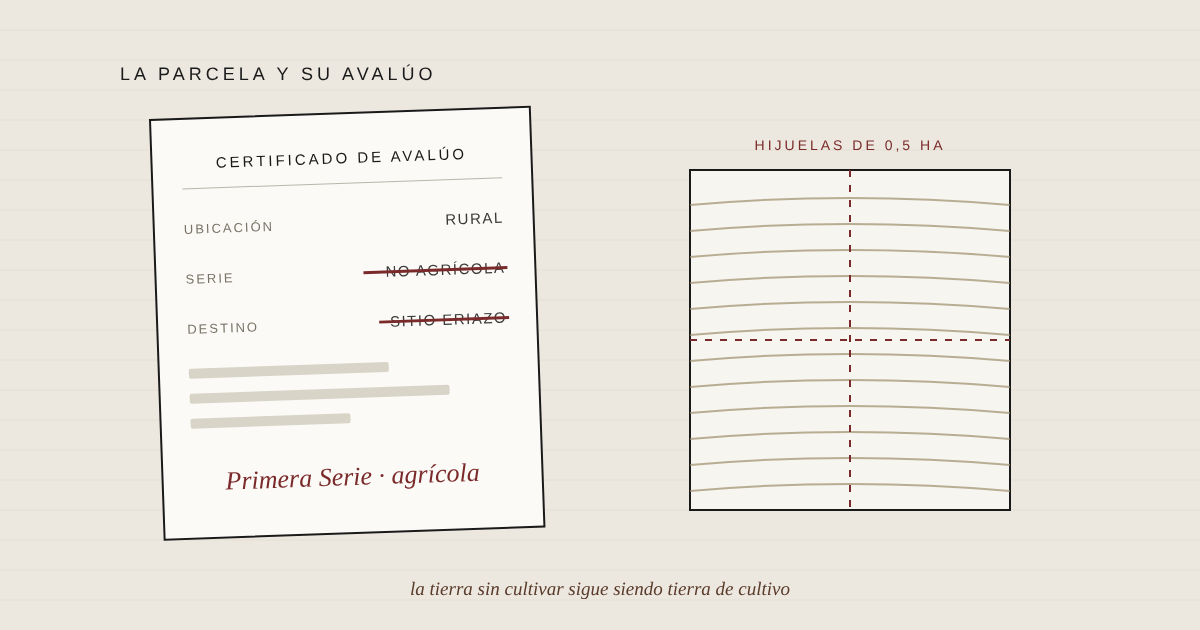
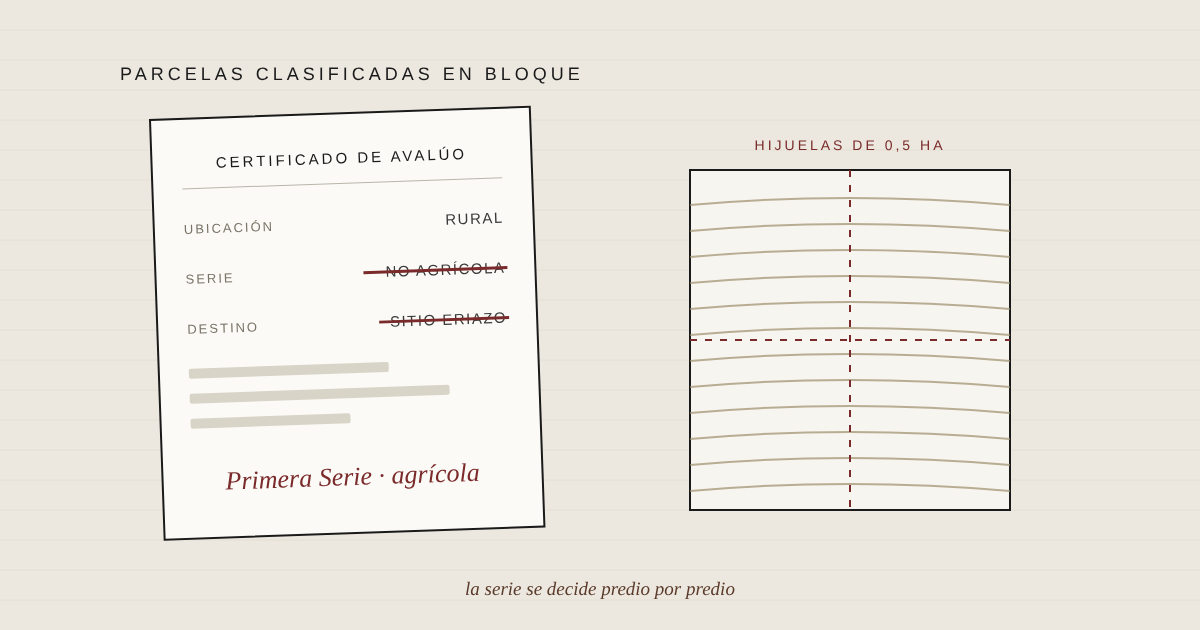
Borrador parcelas: revisión editorial y técnica
Claude-Session: https://claude.ai/code/session_01FRd7An63fs7rwNCgLqKwwc

Changed region(s): [[0.0925, 0.0905, 0.4933, 0.1508], [0.3392, 0.9048, 0.6475, 0.9651]]

diff --git a/src/content/derecho/parcelas-sitio-eriazo.md b/src/content/derecho/parcelas-sitio-eriazo.md
@@ -1,6 +1,6 @@
 ---
-titulo: "La parcela que el Servicio llamó eriazo"
-bajada: "Miles de hijuelas rurales del sur figuran en la serie no agrícola, con destino «sitio eriazo», por el solo hecho de venir de un loteo. Un fallo reciente del Tribunal Tributario y Aduanero de Los Lagos explica por qué ese criterio no tiene sustento en la ley."
+titulo: "Parcelas clasificadas en bloque"
+bajada: "El Servicio de Impuestos Internos registra como «sitio eriazo» muchas parcelas del sur por el solo hecho de venir de un loteo, sin mirar cada predio, y sus dueños pagan contribuciones como si no fueran campo. Un fallo reciente del Tribunal Tributario y Aduanero de Los Lagos explica por qué la ley exige otra cosa."
 tema: "Impuesto territorial · Avalúos"
 fecha: "2026-11-10"
 lectura: "9 minutos"
@@ -8,57 +8,67 @@ imagen: "/img/derecho/parcelas-sitio-eriazo.png"
 borrador: true
 ---
 
-Quien tiene una parcela en el sur de Chile, de esas que nacieron de la subdivisión de un predio más grande, probablemente nunca ha mirado con atención su certificado de avalúo fiscal. Si lo hiciera, en muchos casos encontraría dos datos que no calzan con lo que ve cuando llega al terreno: que el predio está clasificado en la serie de bienes raíces no agrícolas, y que su destino es «sitio eriazo». Detrás de esas dos líneas hay un avalúo bastante más alto que el de los campos vecinos, y unas contribuciones que poco tienen que ver con un potrero.
+Quien tiene una parcela en el sur de Chile, de esas que nacieron de la subdivisión de un predio más grande, probablemente nunca ha mirado con atención su certificado de avalúo fiscal. Si lo hiciera, en muchos casos encontraría dos datos que no calzan con lo que ve cuando llega al terreno: que el predio está clasificado en la serie de bienes raíces no agrícolas, y que su destino es «sitio eriazo». Detrás de esas dos líneas hay un avalúo bastante más alto que el de los campos vecinos, y unas contribuciones que poco tienen que ver con lo que rinde un campo.
 
-El 10 de noviembre de 2026, el Tribunal Tributario y Aduanero de la Región de Los Lagos dictó una sentencia que se hace cargo de este problema de manera directa. En una causa patrocinada por el abogado René Fuchslocher (RIT GR-12-00031-2026), el tribunal ordenó eliminar la calificación de «sitio eriazo» de trece parcelas rurales ubicadas en Llanquihue, Frutillar, Hualaihué, Futaleufú y el sector de Lagunitas, en Puerto Montt, y clasificarlas en la Primera Serie, la de los bienes raíces agrícolas. Es, además, la segunda sentencia del mismo tribunal en esta línea.
+El 10 de noviembre de 2026, el Tribunal Tributario y Aduanero de la Región de Los Lagos dictó una sentencia sobre este problema, en una causa patrocinada por el abogado René Fuchslocher (RIT GR-12-00031-2026). El tribunal ordenó al Servicio de Impuestos Internos eliminar la calificación de «sitio eriazo» de trece parcelas rurales ubicadas en Llanquihue, Frutillar, Hualaihué, Futaleufú y el sector de Lagunitas, en Puerto Montt, y, una vez ejecutoriada la sentencia, clasificarlas en la Primera Serie, la de los bienes raíces agrícolas. No es la primera vez que ese tribunal se pronuncia sobre el tema: en 2025 ya había dicho que la calificación de sitio eriazo no tiene sustento en la Ley 17.235.
 
-Quiero detenerme en los fundamentos, porque me parece que dicen bastante más que el caso.
+La discusión sobre la ley, en este caso, es bastante clara. Lo que más me interesa del fallo es la forma en que el Servicio llegó a clasificar esas parcelas, porque muestra algo que veo seguido en materia tributaria: que el problema rara vez está en la norma, y casi siempre está en el proceso con que se aplica.
 
-## Dos series y una sola pregunta
+## Cómo se clasificaron
+
+El dueño de los trece predios pidió al Servicio que revisara su clasificación. El Servicio la mantuvo con una resolución que se apoyó en tres cosas: en la Circular N.º 15, de 2019, en que la mayoría eran lotes de superficie acotada, y en que los más extensos estaban parcelados para la venta, como uno que registraba dieciocho transferencias. Para hacerlo revisó el catastro y los giros de contribuciones, pero, como constató el tribunal, clasificó los predios solo por venir de una subdivisión, sin hacer la comparación que exige la ley.
+
+Para trece roles distintos, repartidos entre Llanquihue y Futaleufú, la decisión salió de la información que el Servicio ya tenía en sus sistemas y del historial de ventas de uno solo de ellos. Esa forma de clasificar, en bloque y desde el escritorio, es el verdadero centro del problema.
+
+## Lo que la ley pregunta
 
 La Ley 17.235, sobre impuesto territorial, divide los bienes raíces en dos series. La Primera Serie, la agrícola, comprende, según su artículo 1° letra A), todo predio, cualquiera que sea su ubicación, cuyo terreno esté destinado preferentemente a la producción agropecuaria o forestal, o que económicamente sea susceptible de dichas producciones en forma predominante. La Segunda Serie reúne a todos los demás.
 
-Lo importante está en la frase que viene a continuación. La misma ley dice que la destinación preferente se evaluará en función de las rentas que produzca o pueda producir la actividad agropecuaria y los demás fines a que se pueda destinar el predio. Es decir, la clasificación no es una impresión ni una etiqueta. Es el resultado de un ejercicio comparativo: cuánto rendiría ese suelo en el campo, y cuánto rendiría en otros usos posibles. La pregunta que la ley le hace al Servicio es una sola, y se responde predio por predio.
+La misma norma agrega que la destinación preferente se evaluará en función de las rentas que produzca o pueda producir la actividad agropecuaria y los demás fines a que se pueda destinar el predio. Es decir, para clasificar un predio hay que hacer una comparación, y preguntarse cuánto rendiría ese suelo en el campo y cuánto rendiría en los otros usos que se le podrían dar. Esa comparación, por lo que dice la propia ley, hay que hacerla con cada predio por separado, que es justamente lo que no ocurrió en este caso.
 
-## Lo que dice la Circular 15, y lo que se aplicó
+Hay además un detalle de ese artículo que suele pasar inadvertido. La ley habla de todo predio «cualquiera que sea su ubicación», lo que significa que clasifica por el uso económico del suelo, y no por la forma en que se originó el título. Que un predio venga de un loteo dice algo de su historia en el Conservador, pero nada sobre su destinación preferente, y por eso no puede ser, por sí solo, la razón para sacarlo de la serie agrícola.
 
-El Servicio de Impuestos Internos desarrolló este punto en su Circular N.º 15, de 2019, y ahí aparece la figura que está detrás de toda esta discusión: la parcela de agrado. La circular instruye incluir en la Segunda Serie a los inmuebles rurales con superficies que no permitan una explotación económica agropecuaria, y agrega que en esa misma situación se encuentran las parcelas de agrado, que describe como bienes raíces rurales, regularmente de media hectárea o más, de un valor comercial superior al de los predios agrícolas del entorno, y cuya explotación agrícola es inexistente o secundaria.
+## La circular de las parcelas de agrado
 
-Esa última condición es la que se perdió en el camino. La circular no dice que toda parcela que venga de un loteo sea de agrado. Dice que lo es cuando su explotación agrícola es inexistente o secundaria, lo que supone, como mínimo, mirar el predio. El tribunal lo dijo con bastante claridad: el Servicio ha desestimado sistemáticamente esa sutileza, porque el solo hecho de que un terreno sea el producto de una subdivisión a gran escala, con hijuelas de tamaños más o menos similares, le basta para concluir que perdió su aptitud agrícola.
+La Circular 15 desarrolla este punto, y en ella aparece la figura que está detrás de toda esta discusión, la parcela de agrado. La circular instruye incluir en la Segunda Serie a los inmuebles rurales con superficies que no permitan una explotación económica agropecuaria y en que existan construcciones destinadas a la habitación, el comercio u otros usos, y agrega que en esa misma situación se encuentran las parcelas de agrado, que describe como bienes raíces rurales, regularmente de media hectárea o más, de un valor comercial superior al de los predios agrícolas del entorno, y cuya explotación agrícola es inexistente o secundaria.
 
-En el caso concreto, la resolución que rechazó la petición del contribuyente se fundó en la circular y en un dato: que uno de los predios registraba dieciocho transferencias. El Servicio revisó el catastro y los giros de contribuciones, pero no hizo un análisis individual de los trece roles ni la comparación de rentas que exige la ley. Se aplicó una instrucción administrativa en bloque, y a medias.
+Esa última condición es la que se perdió en el camino. La circular no dice que toda parcela que venga de un loteo sea de agrado. Dice que lo es cuando su explotación agrícola es inexistente o secundaria, lo que supone, como mínimo, mirar el predio. El tribunal lo dijo con mucha claridad, al reprochar que el Servicio haya pasado por alto esa distinción de manera sistemática. En el fondo, la circular se aplicó a todos los predios por igual, desde la información que el Servicio ya tenía, y sin la parte que obligaba a mirar si en cada uno la explotación agrícola era inexistente o secundaria. Y en este caso, además, ninguno de los trece predios tenía construcciones.
 
-## La aptitud agrícola no se pierde al dividir
+Creo que hay un argumento todavía más simple, que el fallo deja insinuado sin desarrollarlo. Una resolución que clasifica un bien raíz es un acto administrativo, y como tal debe estar fundada, como lo exigen los artículos 11 y 41 de la Ley 19.880. Una resolución que se limita a decir que los predios están bien catastrados según una circular, sin explicar por qué cada uno de ellos dejó de ser agrícola, no cumple ese estándar, por correcta que sea la circular. Y conviene recordar que una circular obliga a los funcionarios del Servicio, pero no a los contribuyentes ni a los tribunales.
 
-El centro del razonamiento del tribunal está en el Decreto Ley N.º 3.516, de 1980, que regula la subdivisión de predios rústicos. Su artículo 1° define los predios rústicos como los inmuebles de aptitud agrícola, ganadera o forestal ubicados fuera de los límites urbanos, y permite dividirlos libremente siempre que los lotes resultantes tengan una superficie no inferior a media hectárea física.
+## Lo que se divide sigue siendo campo
 
-El tribunal extrae de esa norma una consecuencia que me parece difícil de rebatir. Si la ley permite dividir un predio rústico hasta media hectárea, es porque entiende que cada lote resultante conserva la aptitud del todo. La tierra es un bien materialmente divisible: se puede fraccionar en partes sin que pierda su naturaleza, y cada parte participa de ella. Por eso, si el predio original tenía aptitud agrícola o forestal, lo lógico es presumir que cada hijuela la conserva, y si el Servicio sostiene que esa aptitud desapareció, es a él a quien le corresponde demostrarlo.
+El tribunal construyó buena parte de su razonamiento sobre el Decreto Ley N.º 3.516, de 1980, que regula la subdivisión de predios rústicos. Su artículo 1° define los predios rústicos como los inmuebles de aptitud agrícola, ganadera o forestal ubicados fuera de los límites urbanos, y permite dividirlos libremente siempre que los lotes resultantes tengan una superficie no inferior a media hectárea física.
 
-Hay un segundo argumento, de competencia, que también me parece muy relevante. La aptitud agrícola o forestal de un suelo no es una materia que el Servicio pueda evaluar por sí solo, porque es una cuestión técnica que la ley ha encargado a otros organismos, como el Servicio Agrícola y Ganadero, que además es el que aprueba la subdivisión. Y el mismo decreto ley impide que los lotes resultantes cambien de destino. De modo que, cuando el Servicio hace la comparación de rentas que le exige la Ley 17.235, se encuentra con un límite legal: los usos alternativos con los que puede comparar están acotados por la propia ley que autorizó la subdivisión.
+De esa norma se desprende una consecuencia que me parece difícil de rebatir. Cuando la ley autoriza que un predio rústico se divida hasta media hectárea, lo que autoriza es que un campo se divida en campos más chicos, y en ningún momento que deje de ser campo. Por eso, si el predio original tenía aptitud agrícola o forestal, lo razonable es presumir que cada lote la conserva, y si el Servicio sostiene que esa aptitud desapareció, es a él a quien le corresponde demostrarlo, lo que solo se puede hacer mirando cada predio, y no el plano del loteo.
 
-## Eriazo, una palabra que la ley no usa
+El tribunal agrega un segundo argumento, que tiene que ver con lo que el Servicio puede y no puede evaluar por su cuenta. Según la sentencia, la aptitud agrícola o forestal de un suelo es una cuestión técnica que la ley ha encargado a otros organismos, como el Servicio Agrícola y Ganadero (SAG), que es además el que certifica que la subdivisión cumple con el decreto ley. Y el mismo decreto deja a los lotes resultantes sujetos a la prohibición de cambiar su destino en los términos de los artículos 55 y 56 de la Ley General de Urbanismo y Construcciones, que solo admiten excepciones acotadas. De modo que, cuando el Servicio hace la comparación de rentas que le exige la Ley 17.235, los usos alternativos con los que puede comparar están limitados por la misma ley que permitió la subdivisión.
 
-El segundo eje del fallo es la expresión «sitio eriazo». El tribunal constató algo que cualquiera puede verificar leyendo la Ley 17.235: esa expresión no aparece en ninguna parte del texto. El artículo 8° habla de sitios no edificados con urbanización, de propiedades abandonadas y de pozos lastreros, siempre en áreas urbanas, pero no de sitios eriazos. En palabras de la sentencia, la calificación de sitio eriazo es una creación pura de la doctrina del Servicio.
+## Una palabra que viene del catastro
 
-El Servicio explicó en el juicio que «eriazo» es solo la denominación del destino de un inmueble no agrícola que no tiene construcciones, para distinguirlo de otros destinos como el habitacional o el comercial. Pero el tribunal advirtió el problema de fondo: decir que un terreno es eriazo informa que no tiene edificación, pero no responde la pregunta que la ley obliga a responder, que es cuál es su uso preferente. Una etiqueta descriptiva no reemplaza el análisis de rentas del artículo 1°.
+La expresión «sitio eriazo» no aparece en la Ley 17.235. El artículo 8° habla de sitios no edificados, de propiedades abandonadas y de pozos lastreros, siempre en áreas urbanas, pero no de sitios eriazos. El tribunal concluye que es una categoría que el Servicio construyó en sus propias instrucciones, sin apoyo en la ley.
 
-Hay un detalle del juicio que vale la pena contar. En su defensa, el Servicio invocó el diccionario de la Real Academia, según el cual eriazo es una tierra o campo sin cultivar ni labrar. El tribunal tomó esa definición y la llevó a su conclusión natural: si el terreno es tierra sin cultivar, sigue siendo tierra de cultivo, y su lugar es la Primera Serie, con la observación de que hoy no está siendo trabajada.
+El Servicio explicó en el juicio que «eriazo» es solo la denominación del destino de un inmueble no agrícola que no tiene construcciones, para distinguirlo de otros destinos como el habitacional o el comercial. Pero decir que un terreno no tiene construcciones no responde la pregunta que la ley obliga a responder, que es cuál es su uso preferente. Para eso sigue siendo necesario hacer el análisis de rentas que pide el artículo 1°, y en este caso ese análisis no se hizo. A mí me interesa también cómo llega esa palabra al certificado de cada parcela, porque aquí salió del catastro y no de una revisión predio por predio.
 
-## La buena fe del contribuyente
+## Sospecha o fiscalización
 
-El fallo incluye una reflexión que va más allá de las parcelas. El tribunal sostiene que la práctica de registrar en masa las hijuelas en la serie no agrícola parece descansar en la idea de que la prohibición del D.L. 3.516 se infringe con frecuencia, es decir, en la sospecha de que quien compra una parcela va a construir y vivir en ella contra la ley. Y observa que, en esta causa, ni siquiera había construcciones, de modo que la infracción que se anticipaba no había ocurrido.
+El fallo observa que la práctica de registrar las hijuelas en la serie no agrícola parece descansar en la idea de que la prohibición del D.L. 3.516 se infringe con frecuencia, es decir, en la sospecha de que quien compra una parcela va a construir y vivir en ella contra la ley. Y hace notar que, en esta causa, ni siquiera había construcciones, de modo que la infracción que se anticipaba no había ocurrido.
 
-Clasificar un predio a partir de lo que su dueño probablemente hará equivale, dice la sentencia, a presumir masivamente la mala fe de los contribuyentes, lo que choca con la presunción de buena fe que el artículo 8° bis del Código Tributario reconoce como un derecho. Y agrega algo que me parece especialmente importante: aun si existiera un negocio inmobiliario que opera al borde de la ley, el Servicio sigue sometido al principio de legalidad, y no puede erigirse en guardián de normas cuya fiscalización la ley entrega a otros organismos.
+El tribunal relaciona esto con la presunción de buena fe que el numeral 19 del artículo 8° bis del Código Tributario reconoce como un derecho del contribuyente. Yo lo leo también como un problema de método, porque cuando se clasifica un predio por lo que su dueño probablemente hará, y no por lo que hay en el terreno, la sospecha general termina reemplazando a la fiscalización de cada caso. Si alguien construye en una parcela contra lo que dispone el D.L. 3.516, la ley ya dice qué organismos deben fiscalizarlo, y la respuesta no puede ser subir el avalúo de todas las parcelas del loteo.
 
-## Un tema distinto: la sobretasa
+## La sobretasa
 
-El reclamo pedía también que se declarara improcedente la sobretasa del artículo 8° de la Ley 17.235, que grava con un recargo del cien por ciento a ciertos inmuebles no edificados. En este punto el tribunal reiteró lo que ya había dicho en su fallo anterior: esa sobretasa solo procede en áreas urbanas, y su razón de ser es sancionar el abandono de inmuebles dentro de las ciudades, no castigar a quien tiene un terreno rural sin edificar. Con todo, rechazó esa petición, porque quedó acreditado que a estas parcelas nunca se les había aplicado la sobretasa. También rechazó la devolución de lo pagado, porque no se acreditó su monto, sin perjuicio de que el contribuyente pueda pedirla por la vía administrativa.
+El reclamo pedía también que se declarara improcedente la sobretasa del artículo 8° de la Ley 17.235, que aplica un recargo del cien por ciento sobre la tasa a ciertos inmuebles urbanos: sitios no edificados, propiedades abandonadas y pozos lastreros. El tribunal recordó que esa sobretasa solo procede en áreas urbanas, porque la ley la pensó para los terrenos que se dejan abandonados dentro de las ciudades.
 
-## Lo que esto significa para quien tiene una parcela
+Aun así, rechazó esa petición, porque constaba en el expediente que estas parcelas no estaban afectas a la sobretasa. También rechazó la devolución de lo pagado, porque no se acreditaron ni el pago en exceso ni su monto, sin perjuicio de que el contribuyente pueda pedirla por la vía administrativa.
 
-Es una sentencia de primera instancia, y el Servicio puede apelarla ante la Corte de Apelaciones de Puerto Montt. Pero es la segunda del mismo tribunal en esta línea, y sus fundamentos están construidos sobre el texto de la ley y sobre la propia circular del Servicio, lo que les da bastante solidez.
+## Si tienes una parcela
 
-Para quien tiene una parcela que proviene de un loteo, el primer paso es muy simple: descargar el certificado de avalúo fiscal desde el sitio del Servicio y revisar la serie y el destino que tiene asignados. Si el predio figura en la serie no agrícola con destino eriazo, y en los hechos conserva su aptitud agrícola o forestal, es posible pedir al Servicio la corrección de la clasificación, porque la Ley 17.235 contempla expresamente la modificación de los avalúos por errores de clasificación. Si el Servicio la rechaza, esa resolución se puede reclamar ante el Tribunal Tributario y Aduanero dentro de los noventa días siguientes a su notificación. Conviene hacerlo con antecedentes: el certificado de avalúo, la resolución del SAG que aprobó la subdivisión y, idealmente, un informe técnico sobre la aptitud del suelo.
+Es una sentencia de primera instancia, y el Servicio puede apelarla ante la Corte de Apelaciones de Puerto Montt. Pero no es la primera del mismo tribunal sobre este tema, y sus fundamentos están construidos sobre el texto de la ley y sobre la propia circular del Servicio.
+
+Para quien tiene una parcela que proviene de un loteo, el primer paso es muy simple: descargar el certificado de avalúo fiscal desde el sitio del Servicio y revisar la serie y el destino que tiene asignados. Si el predio figura en la serie no agrícola con destino eriazo, y en los hechos conserva su aptitud agrícola o forestal, se puede pedir al Servicio que modifique la clasificación invocando el artículo 10 de la Ley 17.235, que contempla la modificación de los avalúos por errores de clasificación. Conviene pedir también, de manera expresa, la devolución de lo que se haya pagado en exceso, sabiendo que esa devolución tiene límites de tiempo. Si el Servicio rechaza la solicitud, esa resolución se puede reclamar ante el Tribunal Tributario y Aduanero dentro de los noventa días siguientes a su notificación, conforme al artículo 124 del Código Tributario, que fue la vía que se usó en esta causa.
+
+Como el Servicio clasificó en bloque, la corrección conviene pedirla mostrando cada predio. Para eso sirven el certificado de avalúo, el certificado del SAG que autorizó la subdivisión, la inscripción de dominio con su plano, antecedentes del uso real del terreno y, idealmente, un informe técnico sobre la aptitud del suelo.
 
 ---
 
